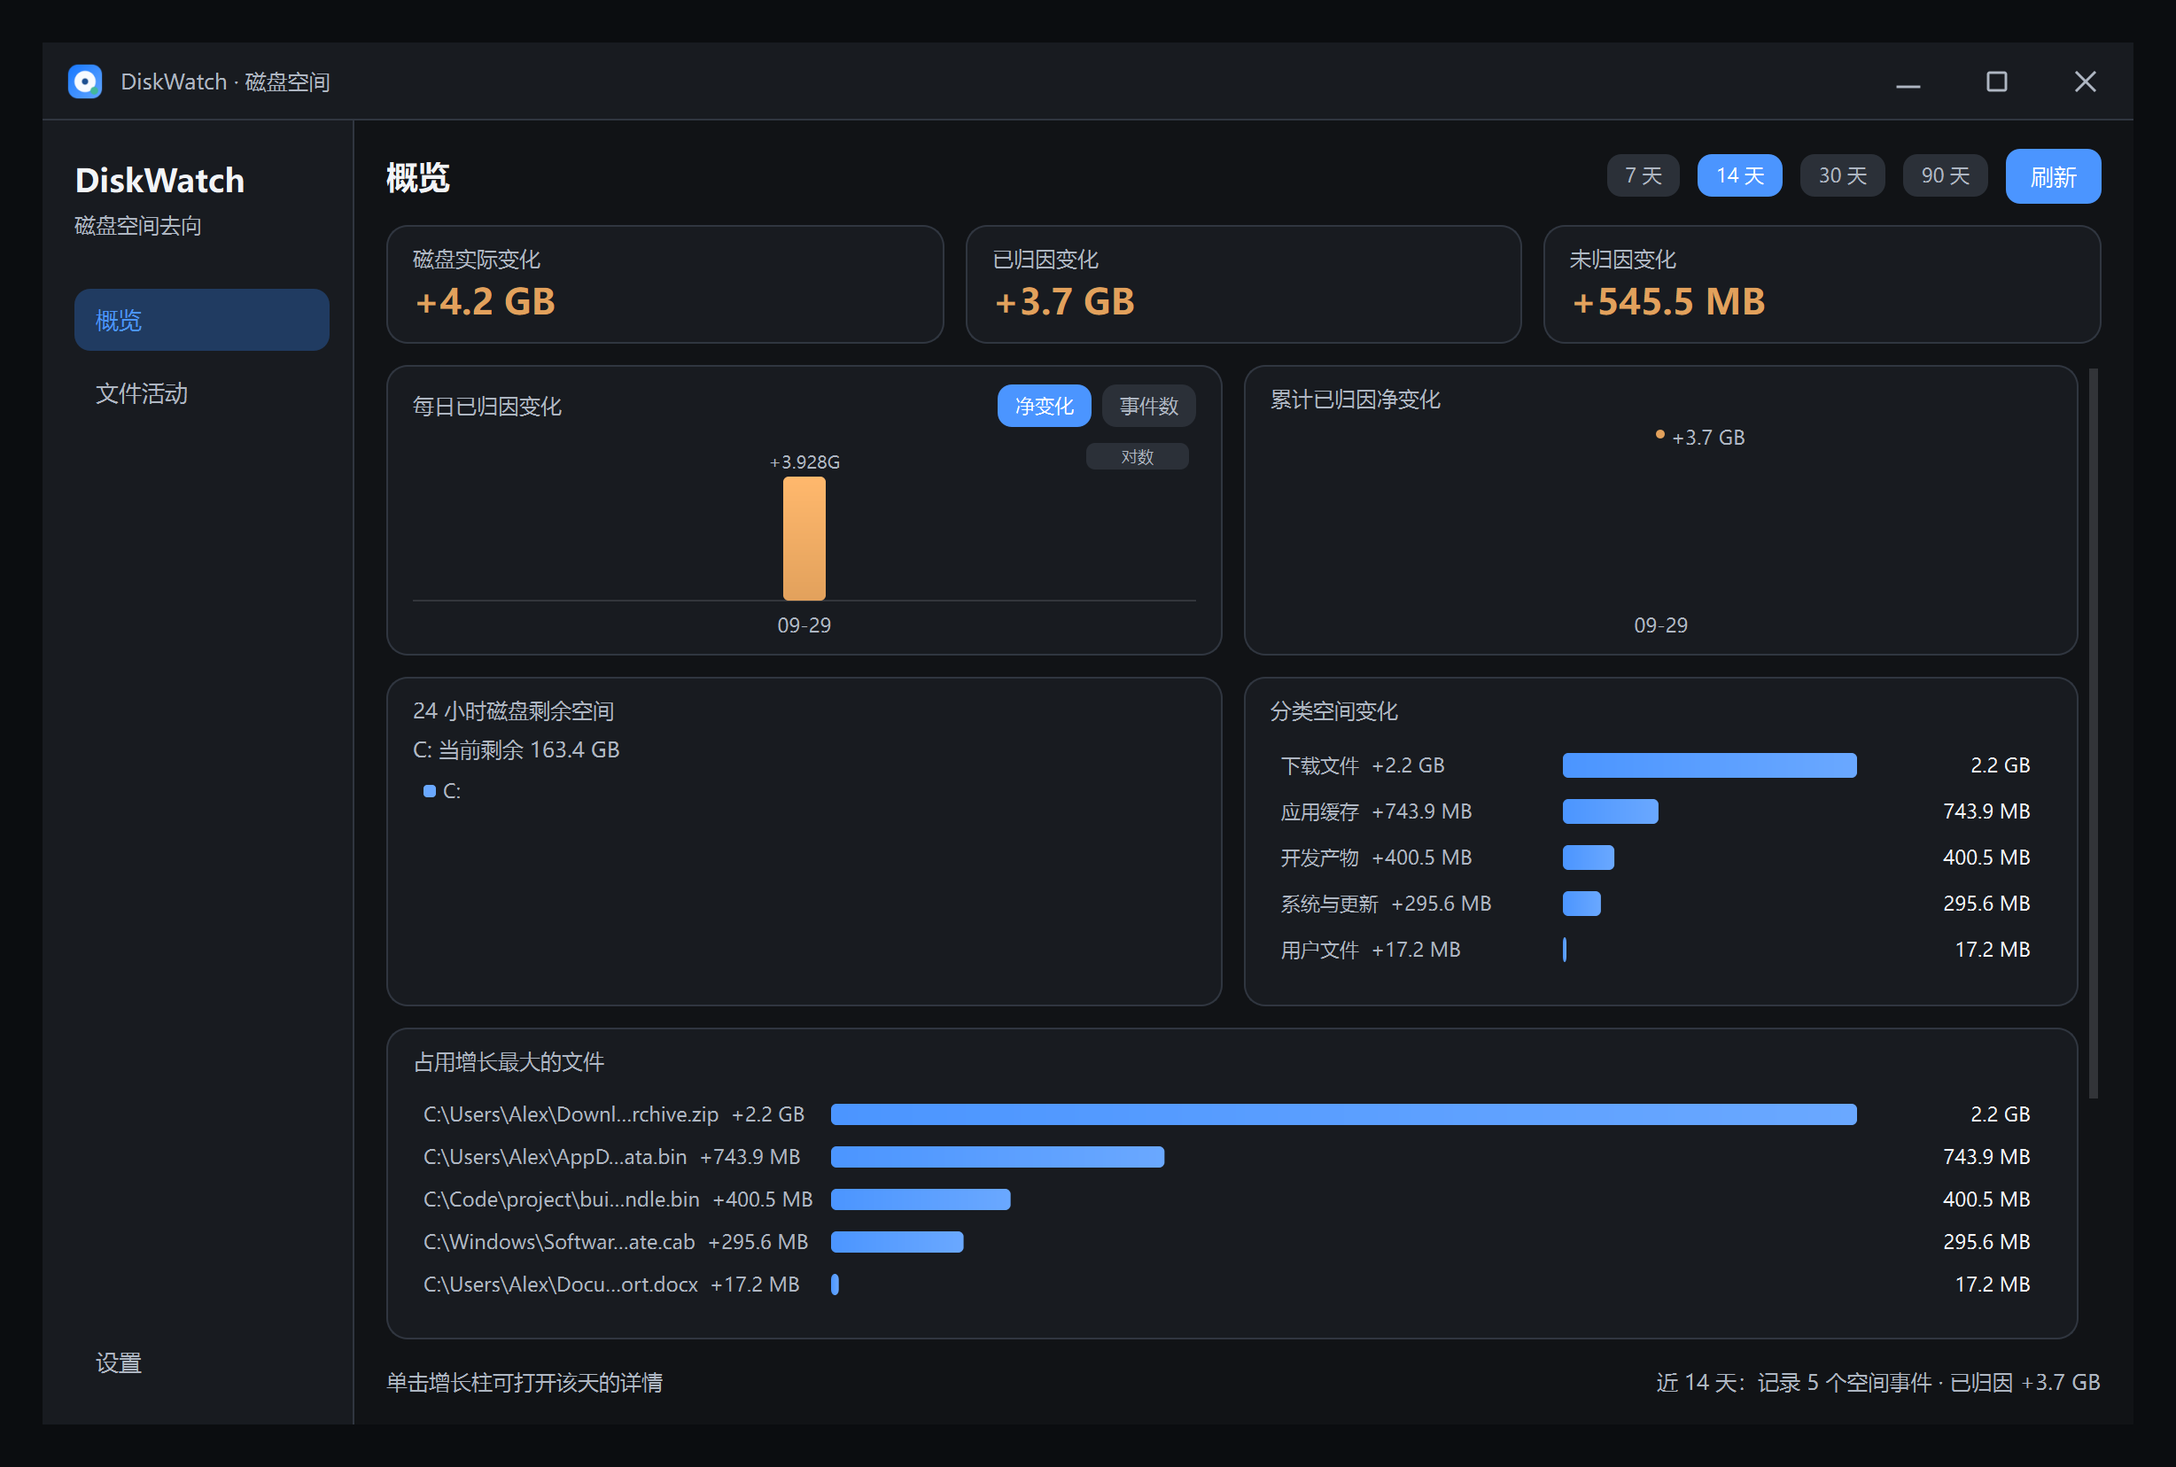
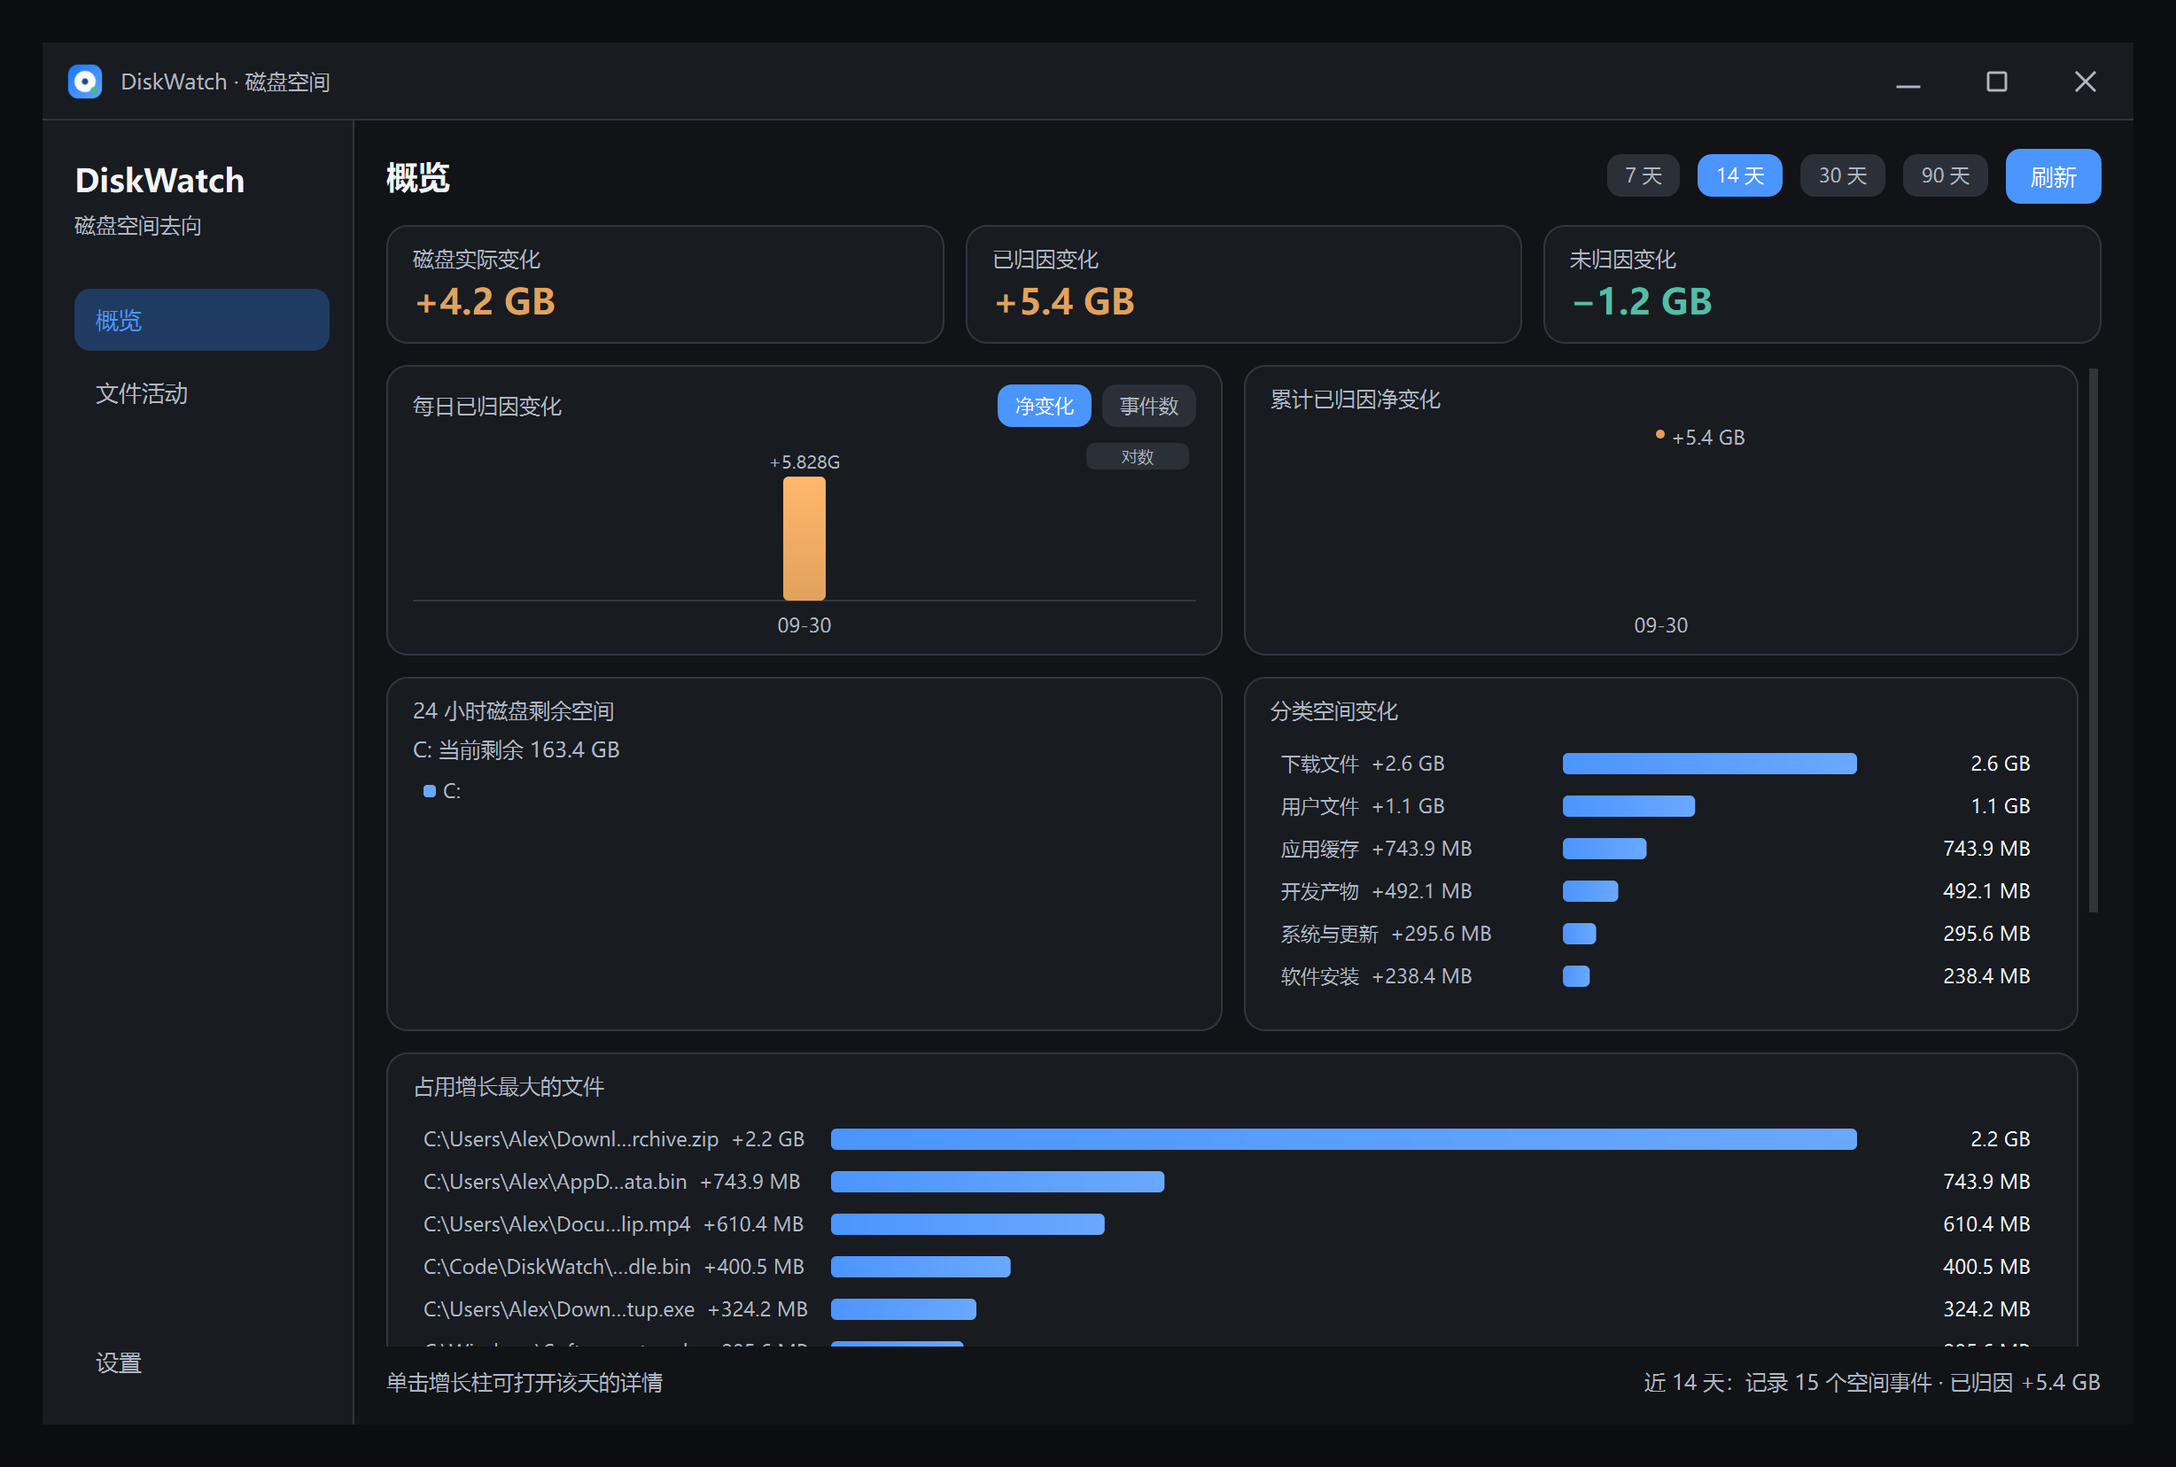
docs: refresh README screenshots for 2.0.8, add drill/ball/menu shots
- render_preview.py: realistic app-path seed data; new screenshots for
  the app drill-down, mini ball and the restyled context menu
- READMEs: new screenshot section (7 images with captions), updated
  highlights (sortable table, readable paths, modern menus), release
  download name 2.0.8, docs file map rows
- regenerated docs/*.png from the current UI

diff --git a/tests/render_preview.py b/tests/render_preview.py
@@ -14,15 +14,17 @@ sys.path.insert(0, str(Path(__file__).resolve().parent.parent))
 
 from PySide6.QtCore import Qt, QTimer
 from PySide6.QtGui import QColor, QPainter, QPixmap
-from PySide6.QtWidgets import QApplication
+from PySide6.QtWidgets import QApplication, QMenu
 
+from diskwatch import VERSION
 from diskwatch.config import DEFAULTS
 from diskwatch.storage import Storage, make_record
 from diskwatch.ui.activity import ActivityPanel
+from diskwatch.ui.ball import MiniBall
 from diskwatch.ui.dashboard import DashboardPanel
 from diskwatch.ui.main_window import MainWindow
 from diskwatch.ui.settings import SettingsDialog
-from diskwatch.ui.style import install_theme
+from diskwatch.ui.style import install_theme, menu_icon, polish_menu
 from diskwatch.ui.widget import FloatingWidget
 
 OUT_DIR = Path(__file__).resolve().parent.parent / "docs"
@@ -32,6 +34,7 @@ class PreviewConfig:
     def __init__(self) -> None:
         self.data = copy.deepcopy(DEFAULTS)
         self.data["widget_pos"] = None
+        self.data["ball_pos"] = None
 
     def get(self, key, default=None):
         return self.data.get(key, default)
@@ -72,11 +75,31 @@ class PreviewMonitor:
 
 def seed(storage: Storage) -> None:
     now = time.time()
+    qq = r"C:\Users\Alex\Documents\Tencent Files\2991799732"
+    wx = r"C:\Users\Alex\Documents\xwechat_files\wxid_ab12cd34"
     rows = [
+        # QQ：Documents 聊天数据（按应用分组后归一组）
+        (qq + r"\nt_qq\nt_data\Pic\2026-09\Thumb\photo-01.jpg", 96_000_000, "user"),
+        (qq + r"\nt_qq\nt_data\Pic\2026-09\Thumb\photo-02.jpg", 88_000_000, "user"),
+        (qq + r"\nt_qq\nt_data\log\qq-log.qqxlog", 42_000_000, "user"),
+        # 微信：图片 / 视频 / 数据库
+        (wx + r"\msg\attach\2026-09\Img\pic-a.jpg", 260_000_000, "user"),
+        (wx + r"\msg\video\2026-09\clip.mp4", 640_000_000, "user"),
+        (wx + r"\db_storage\message\message_0.db", 88_000_000, "user"),
+        # 软件安装
+        (r"C:\SoftWare\Typora\Typora.exe", 118_000_000, "software"),
+        (r"C:\SoftWare\Netease\GameViewer\bin\GameViewer.exe", 132_000_000, "software"),
+        # 下载
         (r"C:\Users\Alex\Downloads\archive.zip", 2_400_000_000, "download"),
+        (r"C:\Users\Alex\Downloads\setup.exe", 340_000_000, "download"),
+        # 开发产物
+        (r"C:\Code\DiskWatch\build\bundle.bin", 420_000_000, "development"),
+        (r"C:\Code\DiskWatch\dist\app.zip", 96_000_000, "development"),
+        # 系统与更新
+        (r"C:\Windows\SoftwareDistribution\Download\update.cab", 310_000_000, "system"),
+        # 应用缓存
         (r"C:\Users\Alex\AppData\Local\Browser\Cache\data.bin", 780_000_000, "cache"),
-        (r"C:\Code\project\build\bundle.bin", 420_000_000, "development"),
-        (r"C:\Windows\SoftwareDistribution\update.cab", 310_000_000, "system"),
+        # 用户文档
         (r"C:\Users\Alex\Documents\report.docx", 18_000_000, "user"),
     ]
     for index, (path, size, category) in enumerate(rows):
@@ -94,6 +117,36 @@ def seed(storage: Storage) -> None:
         [(today, "C:", 175_500_000_000, 512_000_000_000)],
         sampled_at=now,
     )
+
+
+def build_menu() -> QMenu:
+    """与托盘菜单同款：圆角卡片 + 线性图标 + 两个开关勾选项。"""
+    menu = QMenu()
+    polish_menu(menu)
+
+    def add_icon(kind: str, text: str):
+        action = menu.addAction(text)
+        action.setIcon(menu_icon(kind))
+        return action
+
+    toggle = menu.addAction("显示悬浮组件")
+    toggle.setCheckable(True)
+    toggle.setChecked(True)
+    ball = menu.addAction("迷你球模式")
+    ball.setCheckable(True)
+    add_icon("list", "详情面板…")
+    add_icon("chart", "概览…")
+    menu.addSeparator()
+    add_icon("alert", "最近错误 (2)")
+    menu.addSeparator()
+    add_icon("sliders", "设置…")
+    add_icon("refresh", "重新开始监控")
+    add_icon("restart", "重启")
+    menu.addSeparator()
+    add_icon("info", f"关于 DiskWatch {VERSION}")
+    add_icon("power", "退出")
+    menu.adjustSize()
+    return menu
 
 
 def save(widget, name: str, canvas_color: str) -> None:
@@ -131,7 +184,9 @@ def main() -> int:
     window.resize(1180, 780)
     widget = FloatingWidget(storage, monitor, config)
     widget.adjustSize()
-    for surface in (window, widget):
+    ball = MiniBall(storage, monitor, config)
+    menu = build_menu()
+    for surface in (window, widget, ball, menu):
         surface.setAttribute(Qt.WA_DontShowOnScreen, True)
 
     def render() -> None:
@@ -148,6 +203,14 @@ def main() -> int:
         app.processEvents()
         save(widget, "widget-preview", "#dfe3e9")
         widget.hide()
+        ball.show()
+        app.processEvents()
+        save(ball, "ball-preview", "#dfe3e9")
+        ball.hide()
+        menu.show()
+        app.processEvents()
+        save(menu, "menu-preview", "#dfe3e9")
+        menu.hide()
 
         install_theme(app, "light")
         window.show_activity()
@@ -157,6 +220,13 @@ def main() -> int:
     def render_light() -> None:
         app.processEvents()
         save(window, "main-light-preview", "#e9edf2")
+        # 下钻一个应用分组：展示返回行 + 平铺明细（路径缩写 + tooltip）
+        activity._table_clicked(1, 0)
+        QTimer.singleShot(350, render_drill)
+
+    def render_drill() -> None:
+        app.processEvents()
+        save(window, "activity-drill-preview", "#e9edf2")
         window.show_settings()
         settings.nav.setCurrentRow(2)
         app.processEvents()

diff --git a/README.md b/README.md
@@ -40,7 +40,7 @@ Unattributed         0.5 GB   ← the OS's own doing, nothing to worry about
 
 ## 🚀 Get started in three steps
 
-1. Grab `DiskWatch-2.0.7-win64.zip` from [Releases](https://github.com/niujiaxu/DiskWatch/releases/latest)
+1. Grab `DiskWatch-2.0.8-win64-portable.zip` from [Releases](https://github.com/niujiaxu/DiskWatch/releases/latest)
 2. Unzip anywhere and double-click **`start.bat`** (it bootstraps a venv on first run)
 3. Use the **floating card** → open *Details* for the ledger, *Dashboard* for trends
 
@@ -56,7 +56,12 @@ Unattributed         0.5 GB   ← the OS's own doing, nothing to worry about
 <p align="center">
   <img src="docs/main-light-preview.png" alt="Light main window" width="760" />
 </p>
-<p align="center"><sub>Light theme: file activity (200 per page, search / filters / grouping / CSV export)</sub></p>
+<p align="center"><sub>Light theme: file activity — app-grouped overview (Downloads / WeChat / QQ / each app in its own group, consistent across pages)</sub></p>
+
+<p align="center">
+  <img src="docs/activity-drill-preview.png" alt="Drill-down" width="760" />
+</p>
+<p align="center"><sub>Click a row to drill into that app: the folder column shows the app's home with smart abbreviation; hover for the full path and owning app</sub></p>
 
 <p align="center">
   <img src="docs/settings-preview.png" alt="Settings" width="760" />
@@ -68,6 +73,16 @@ Unattributed         0.5 GB   ← the OS's own doing, nothing to worry about
 </p>
 <p align="center"><sub>Floating card: today's net change, attribution rate, recent files (draggable)</sub></p>
 
+<p align="center">
+  <img src="docs/ball-preview.png" alt="Mini ball" width="180" />
+</p>
+<p align="center"><sub>Mini ball: the collapsed capsule; click to expand the card right where the ball is</sub></p>
+
+<p align="center">
+  <img src="docs/menu-preview.png" alt="Context menu" width="240" />
+</p>
+<p align="center"><sub>Context menu: rounded card + line icons, follows light/dark (tray, card and ball alike)</sub></p>
+
 ## 🔥 Highlights
 
 - 🗂 **Capture everything, classify automatically** — user files / downloads / system & updates / software installs / app caches / temp files / dev artifacts / VM & containers / unclassified
@@ -77,7 +92,8 @@ Unattributed         0.5 GB   ← the OS's own doing, nothing to worry about
 - ⚡ **Fast startup recovery** — NTFS uses the USN Change Journal; the fallback directory scan runs on **6 parallel workers**: 290k directories in **30s** (down from 187s)
 - 🧾 **Space ledger** — old size → new size → delta bytes → category, drive and timestamp, all preserved
 - ✍ **Write coalescing** — a file being written is recorded once, ~6s after it settles
-- 📄 **Paged activity table** — 200 rows per page with search, filters, grouping, sorting and CSV export; hundreds of thousands of events stay responsive
+- 📄 **Paged activity table** — 200 rows per page, five sortable columns, search / filters / grouping / CSV export; folder columns show the app's home with smart abbreviation (`~\Documents\Tencent Files`) and hover reveals the full path + owning app
+- 🖱 **Modern context menus** — tray, floating card and mini ball share one rounded-card style with 16px line icons that follow the light/dark theme
 - 🧹 **Tiered retention** — raw events 30 days → hourly rollups 1 year → daily rollups kept long-term
 - 🎨 **English / 中文 with dark / light / system themes**, hot-swapped at runtime
 - 🖥 **Single instance, autostart, relocatable database**
@@ -178,10 +194,13 @@ Unattributed         0.5 GB   ← the OS's own doing, nothing to worry about
 | `scripts/build_portable.ps1` | Builds the portable PyInstaller bundle (onedir) plus a packaged import self-test |
 | `scripts/make_release.ps1` | Builds the source zip (excludes `.venv` and caches) |
 | `docs/performance.md` | Performance and disk-impact notes (100k-event benchmark, limits) |
-| `docs/main-dark-preview.png` | Dark-theme main window screenshot |
-| `docs/main-light-preview.png` | Light-theme main window screenshot |
+| `docs/main-dark-preview.png` | Dark-theme main window screenshot (overview) |
+| `docs/main-light-preview.png` | Light-theme main window screenshot (app-grouped overview) |
+| `docs/activity-drill-preview.png` | App drill-down screenshot (abbreviated folder column + tooltips) |
 | `docs/settings-preview.png` | Settings page screenshot |
 | `docs/widget-preview.png` | Floating card screenshot |
+| `docs/ball-preview.png` | Mini ball screenshot |
+| `docs/menu-preview.png` | Context menu screenshot (rounded card + line icons) |
 
 </details>
 

diff --git a/README.zh-CN.md b/README.zh-CN.md
@@ -40,7 +40,7 @@ C: 可用空间减少    8.4 GB
 
 ## 🚀 三步上手（真的只有三步）
 
-1. 去 [Releases](https://github.com/niujiaxu/DiskWatch/releases/latest) 下载 `DiskWatch-2.0.7-win64.zip`
+1. 去 [Releases](https://github.com/niujiaxu/DiskWatch/releases/latest) 下载 `DiskWatch-2.0.8-win64-portable.zip`
 2. 解压到任意目录，双击 **`start.bat`**（首次运行会自动建虚拟环境、装依赖）
 3. 桌面出现**悬浮卡片** → 点「详情」看明细、「看板」看趋势
 
@@ -56,7 +56,12 @@ C: 可用空间减少    8.4 GB
 <p align="center">
   <img src="docs/main-light-preview.png" alt="浅色主窗口" width="760" />
 </p>
-<p align="center"><sub>浅色主题：文件活动（分页 200 条 / 搜索 / 筛选 / 分组 / 导出 CSV）</sub></p>
+<p align="center"><sub>浅色主题：文件活动 · 按应用分组总览（下载 / 微信 / QQ / 各软件各归一组，跨页一致）</sub></p>
+
+<p align="center">
+  <img src="docs/activity-drill-preview.png" alt="下钻明细" width="760" />
+</p>
+<p align="center"><sub>点一行下钻到该应用明细：目录列显示"应用老家"并智能缩写，悬停看完整路径与归属应用</sub></p>
 
 <p align="center">
   <img src="docs/settings-preview.png" alt="设置页" width="760" />
@@ -66,7 +71,17 @@ C: 可用空间减少    8.4 GB
 <p align="center">
   <img src="docs/widget-preview.png" alt="悬浮卡片" width="272" />
 </p>
-<p align="center"><sub>悬浮卡片：今日净变化、归因率、最近记录（可拖动 + 迷你球收起）</sub></p>
+<p align="center"><sub>悬浮卡片：今日净变化、归因率、最近记录（可拖动）</sub></p>
+
+<p align="center">
+  <img src="docs/ball-preview.png" alt="迷你球" width="180" />
+</p>
+<p align="center"><sub>迷你球：收起态小胶囊，点一下在球的位置展开卡片</sub></p>
+
+<p align="center">
+  <img src="docs/menu-preview.png" alt="右键菜单" width="240" />
+</p>
+<p align="center"><sub>右键菜单：圆角卡片 + 线性图标，跟随深浅主题（托盘 / 卡片 / 迷你球统一）</sub></p>
 
 ## 🔥 亮点（硬核，但说人话）
 
@@ -77,7 +92,8 @@ C: 可用空间减少    8.4 GB
 - ⚡ **启动恢复够快**：NTFS 优先走 USN 变更日志；退回目录补扫时**6 线程并行**，29 万目录实测 **30 秒**（优化前 187 秒）
 - 🧾 **空间账本**：旧大小 → 新大小 → 字节差 → 分类 / 磁盘 / 时间，全留着、可回溯
 - ✍ **写入合并**：同一文件连续写入只在"停笔"约 6 秒后记一次，事件洪峰也不刷屏
-- 📄 **分页活动表**：每页 200 条，搜索 / 磁盘 / 分类 / 事件类型 / 分组 / 排序 / CSV 导出，几十万条也不卡
+- 📄 **分页活动表**：每页 200 条，5 列可排序、搜索 / 筛选 / 分组 / CSV 导出；目录列显示"应用老家"并智能缩写（`~\Documents\Tencent Files`），悬停看完整路径 + 归属应用
+- 🖱 **现代右键菜单**：托盘 / 悬浮卡片 / 迷你球统一圆角卡片样式 + 16px 线性图标，跟随深浅主题即时重绘
 - 🧹 **分层保留**：原始事件 30 天 → 小时汇总 1 年 → 每日汇总长期保留（自动清理，不涨库）
 - 🎨 **中英双语 + 深色 / 浅色 / 跟随系统**，运行时即时切换
 - 🖥 **单实例防重复启动 + 开机自启 + 数据库位置可迁移**
@@ -179,10 +195,13 @@ C: 可用空间减少    8.4 GB
 | `scripts/build_portable.ps1` | PyInstaller 打包便携版（onedir）+ 打包后导入自检 |
 | `scripts/make_release.ps1` | 生成源码 zip（剔除 .venv 与缓存） |
 | `docs/performance.md` | 性能与磁盘影响说明（含 10 万事件基准、适用边界） |
-| `docs/main-dark-preview.png` | 深色主题主窗口截图 |
-| `docs/main-light-preview.png` | 浅色主题主窗口截图 |
+| `docs/main-dark-preview.png` | 深色主题主窗口截图（概览） |
+| `docs/main-light-preview.png` | 浅色主题主窗口截图（按应用分组总览） |
+| `docs/activity-drill-preview.png` | 应用下钻明细截图（目录列缩写 + tooltip） |
 | `docs/settings-preview.png` | 设置页截图 |
 | `docs/widget-preview.png` | 悬浮卡片截图 |
+| `docs/ball-preview.png` | 迷你球截图 |
+| `docs/menu-preview.png` | 右键菜单截图（圆角卡片 + 线性图标） |
 
 </details>
 
